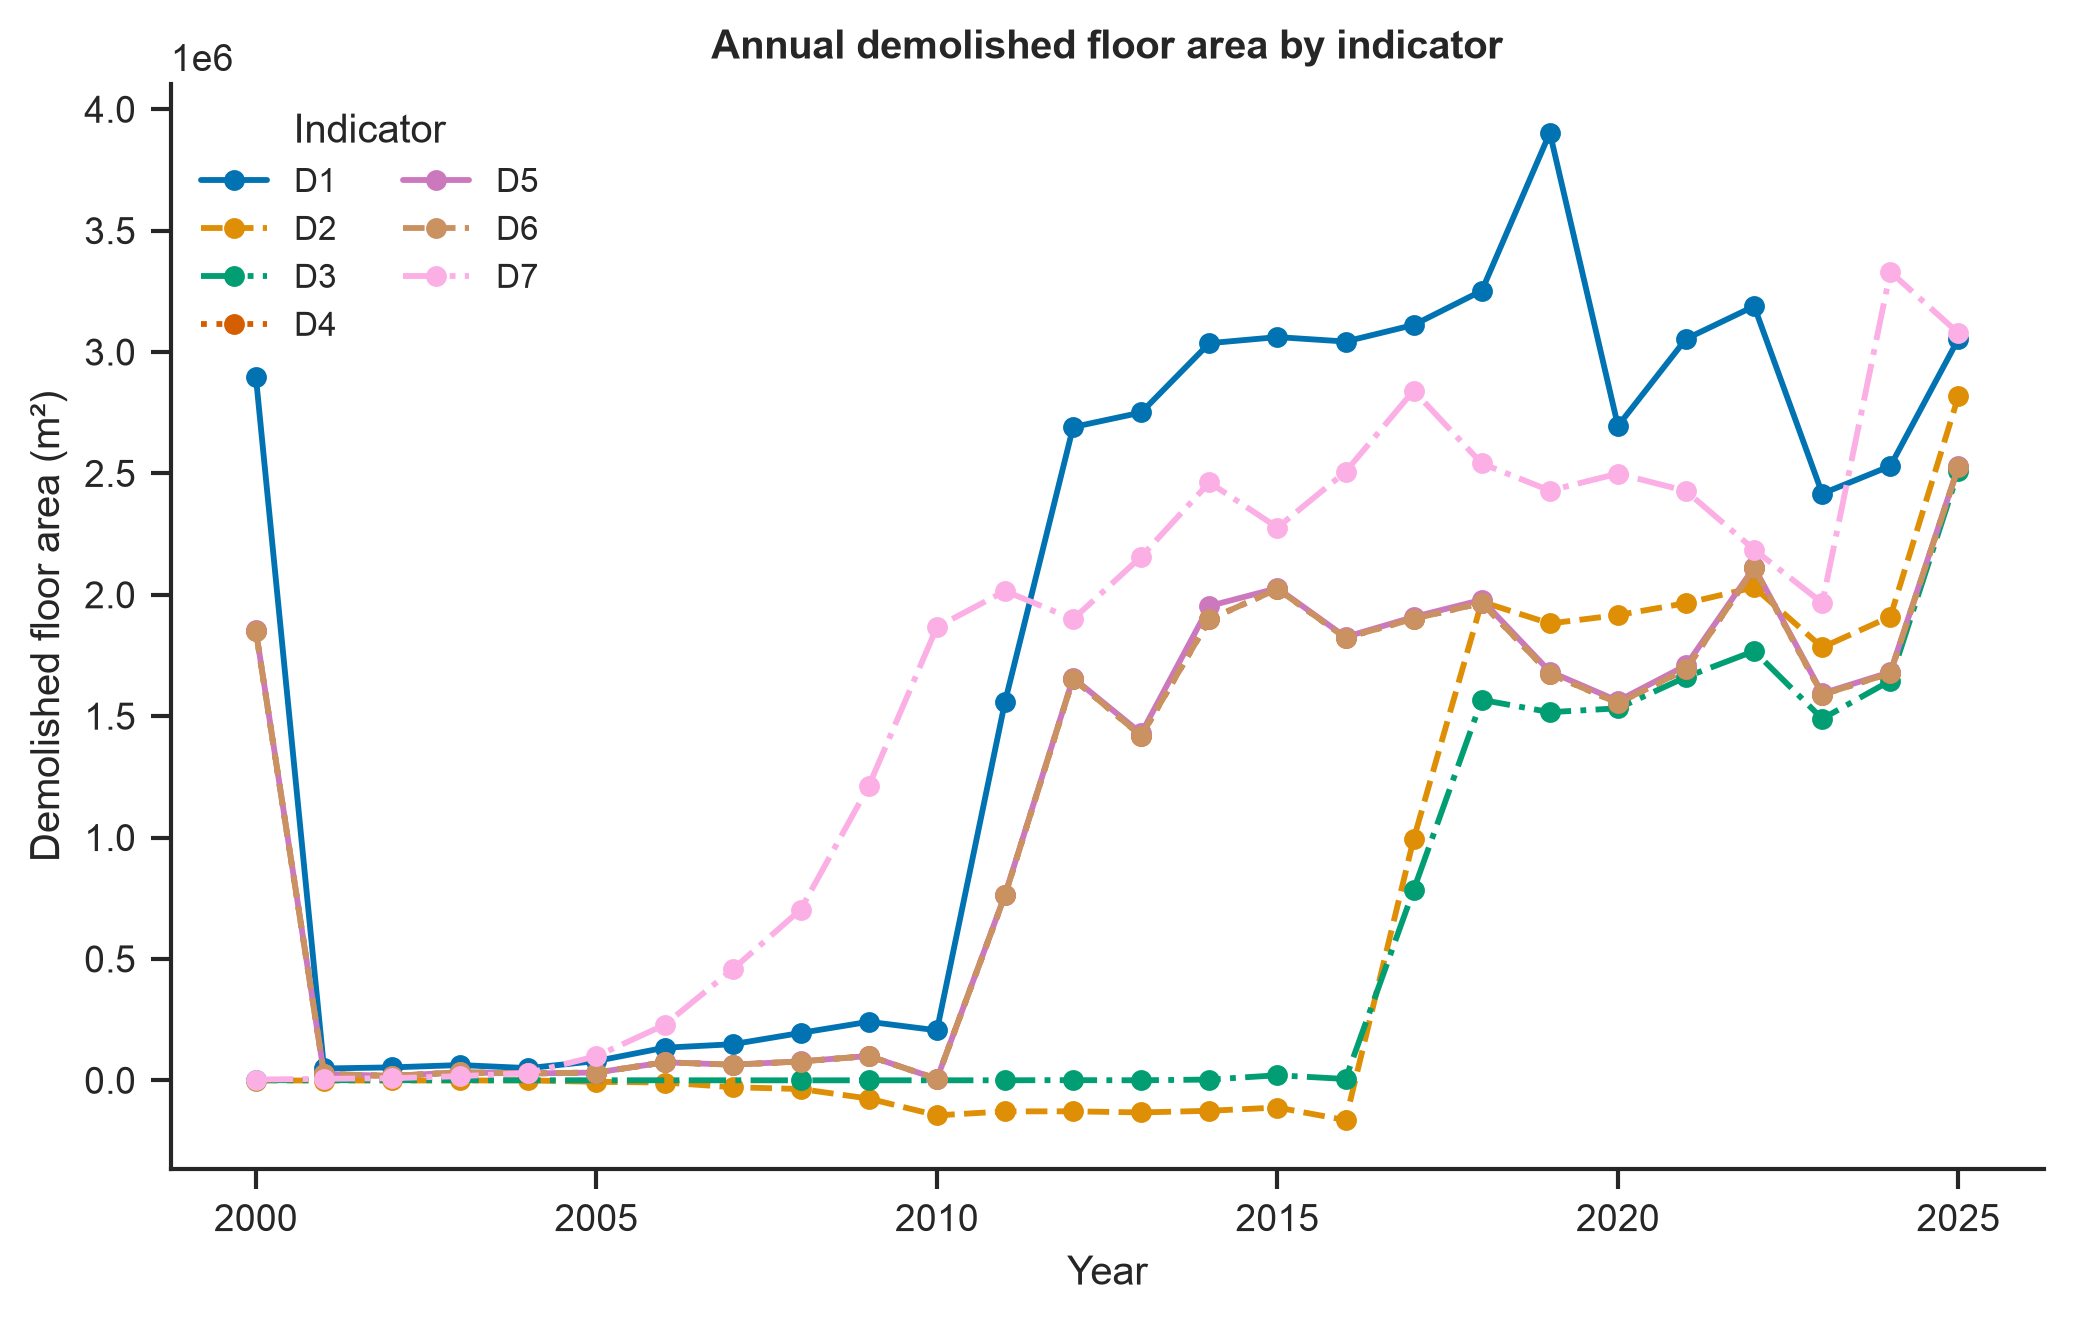
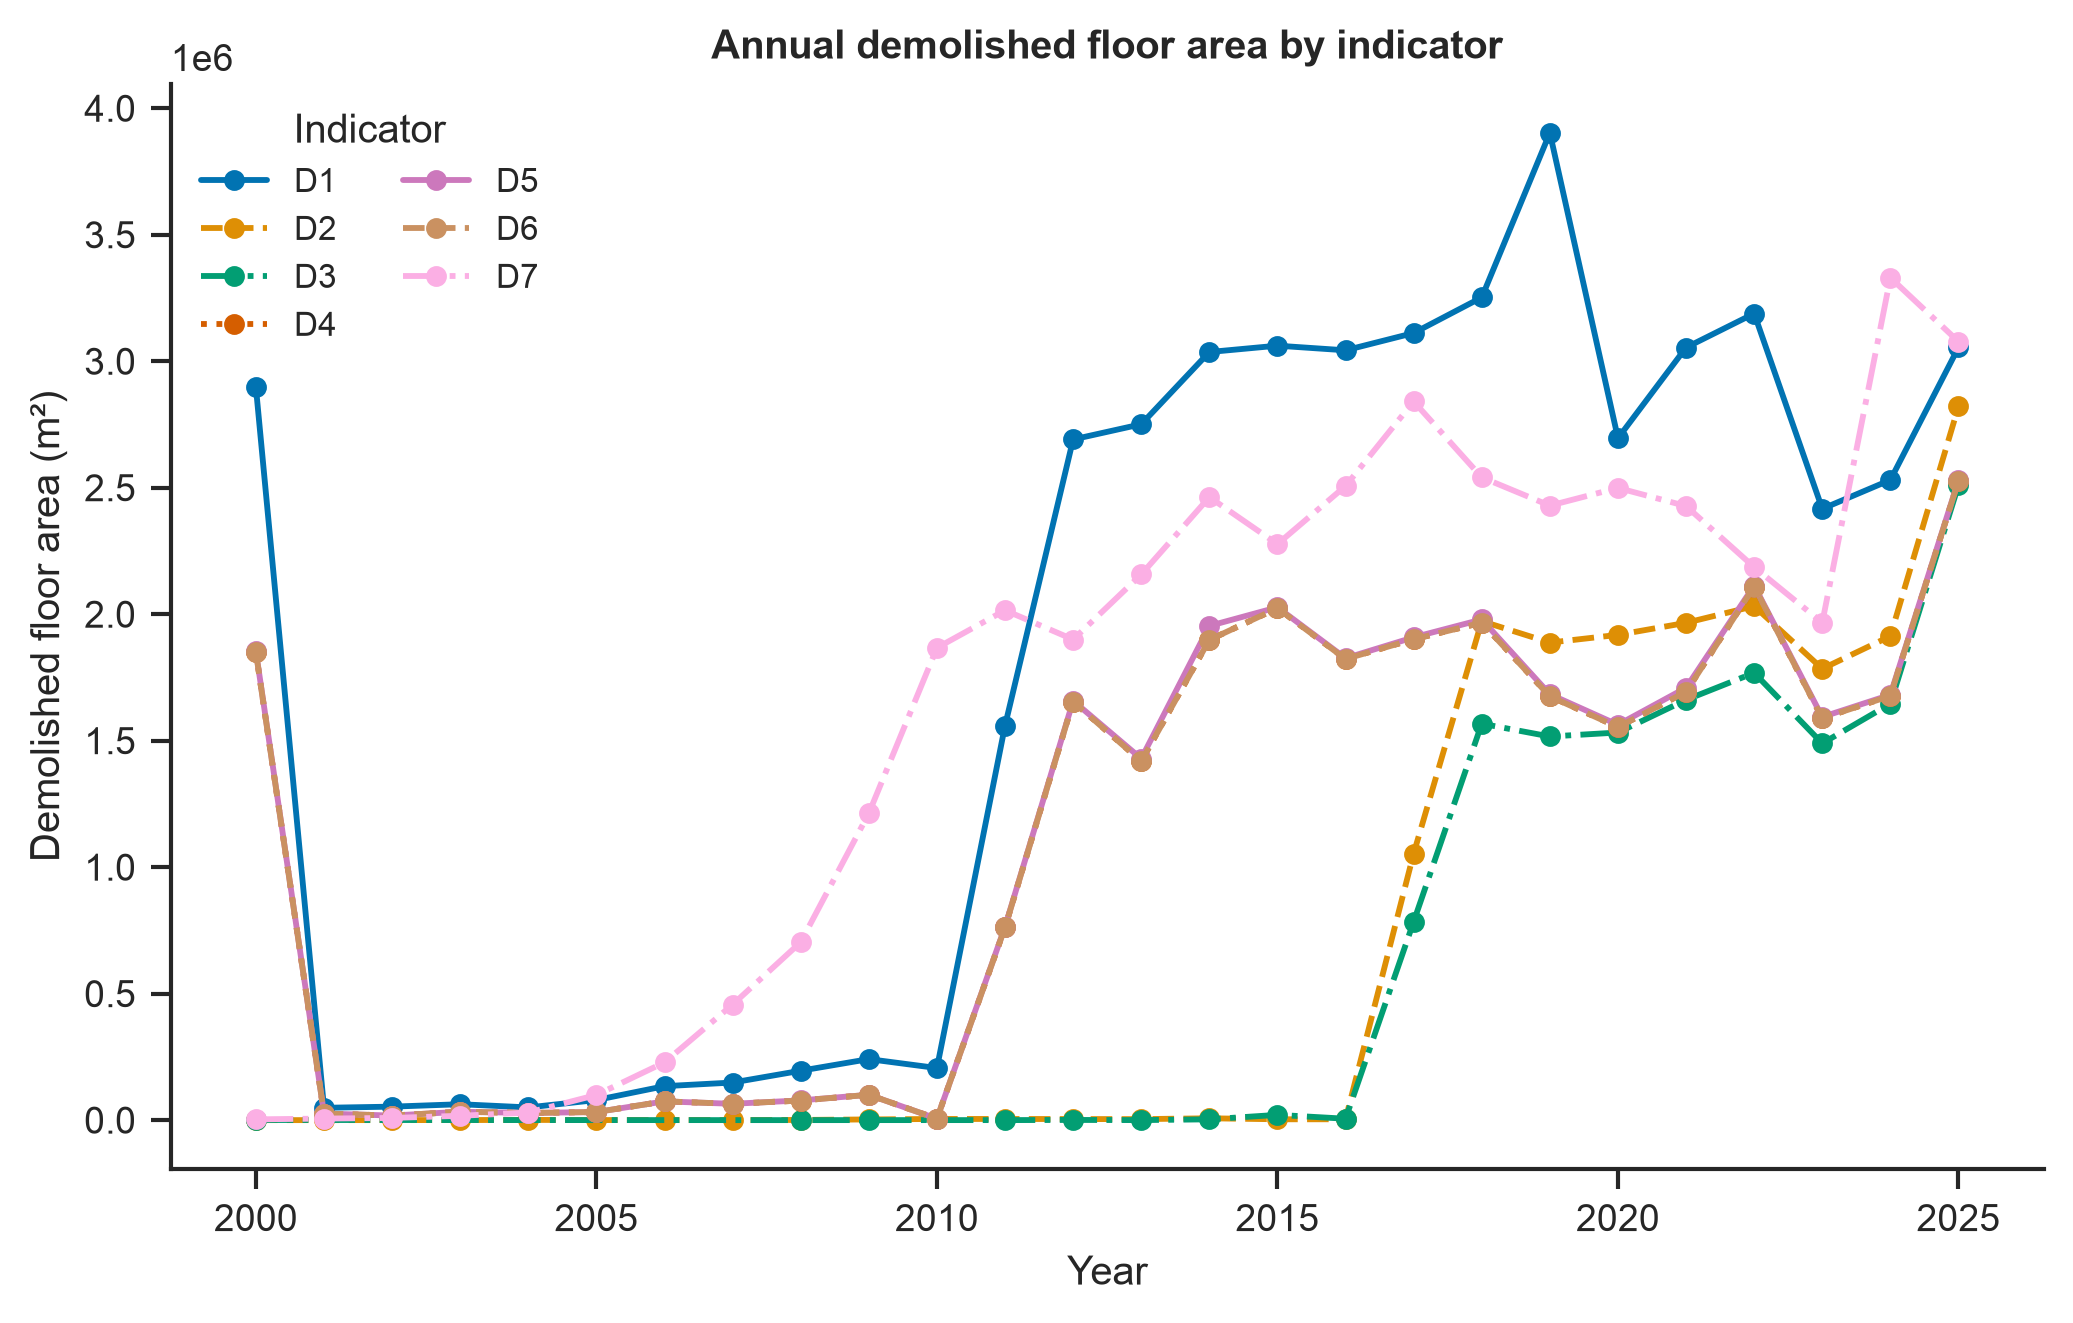
ablation study

diff --git a/src/ablation.py b/src/ablation.py
@@ -21,10 +21,16 @@ Per-building attributes (area, use-code, region, construction year) are rolled u
 lives in the driver, never in an indicator (the indicators stay pure per the article's
 "no opaque contract" principle).
 
+Erroneous AREA values (negative/zero) are coerced to null in ``build_attributes`` — buildings
+are kept, so no indicator's count changes. Construction year is left raw (we model
+demolitions, not lifespan; the year-1000 GIS marker is only flagged). ``cleaning_report``
+records how many values each rule removed, overall and per indicator.
+
 Outputs (written under ``results/``):
     ablation_summary.csv   one row per variant: counts, total/median m² + coverage per area def
     annual.csv             variant × year: count and m² per area def
     by_region.csv          variant × region: count and floor-area m²
+    cleaning_report.csv    erroneous values removed per rule × (all stock, each indicator)
     overlap.csv            pairwise intersection + Jaccard among the 7 base indicators
     figures/*.png + *.pdf  annual_counts, annual_area_etage,
                            area_definition_sensitivity, overlap_heatmap
@@ -58,37 +64,125 @@ AREA_DEFS = ["footprint", "total", "etage"]
 # not blanked-on-exit — hence honest coverage reporting rather than backfill.
 
 
-def build_attributes() -> pl.LazyFrame:
-    """LazyFrame[building_id, area_footprint, area_total, area_etage, use_code,
-    region_name, construction_year] — one row per building."""
+# Erroneous-value handling. We model DEMOLITIONS, not lifespan, so the only values that can
+# corrupt an output are the ones we aggregate: the demolition DATE and the AREA. Those we
+# clean. The construction YEAR is a covariate we do not aggregate on, so its errors (0,
+# medieval, or the auto-generated GIS marker 1000) are harmless here — nulling them would
+# only discard real demolitions' metadata for no gain. We therefore leave construction_year
+# RAW and merely FLAG the auto-generated year-1000 buildings (`autogenerated`) so a future
+# lifespan / construction-period analysis can drop them itself (Andersen 2023 does).
+#
+# Area cleaning IS applied to all three area columns with the same rule (`<= 0 → null`:
+# negative is impossible, zero is "unregistered" not a real 0): buildings kept, so no
+# indicator's count changes and `coverage_pct` stays honest. Future demolition DATES (the
+# other modelled quantity) are removed by the demolition-year window in
+# `indicators._in_window`; empirically there are none beyond the current year anyway.
+AUTOGENERATED_YEAR = 1000  # GIS/satellite auto-registered buildings (flagged, NOT removed)
+
+
+def _raw_rollup() -> pl.LazyFrame:
+    """One row per building with the raw last-known non-null attributes (pre-cleaning)."""
     lf = pl.scan_parquet(ind.BYGNING_PATH).sort("virkningFra")
 
     def last_nonnull(col: str) -> pl.Expr:
         return pl.col(col).drop_nulls().last()
 
-    rolled = lf.group_by("id_lokalId").agg(
-        last_nonnull("byg041BebyggetAreal").alias("area_footprint"),
-        last_nonnull("byg038SamletBygningsareal").alias("area_total"),
-        last_nonnull("byg039BygningensSamledeBoligAreal").alias("_bolig"),
-        last_nonnull("byg040BygningensSamledeErhvervsAreal").alias("_erhverv"),
-        last_nonnull("byg021BygningensAnvendelse").alias("use_code"),
-        last_nonnull("region_name").alias("region_name"),
-        last_nonnull("byg026Opførelsesår").alias("construction_year"),
+    return (
+        lf.group_by("id_lokalId")
+        .agg(
+            last_nonnull("byg041BebyggetAreal").alias("area_footprint"),
+            last_nonnull("byg038SamletBygningsareal").alias("area_total"),
+            last_nonnull("byg039BygningensSamledeBoligAreal").alias("_bolig"),
+            last_nonnull("byg040BygningensSamledeErhvervsAreal").alias("_erhverv"),
+            last_nonnull("byg021BygningensAnvendelse").alias("use_code"),
+            last_nonnull("region_name").alias("region_name"),
+            last_nonnull("byg026Opførelsesår").alias("construction_year"),
+        )
+        .with_columns(
+            # etageareal = bolig + erhverv (BUILD). Null only when BOTH are null (no info);
+            # if one is present the other counts as 0. Negative components dropped first so
+            # they cannot corrupt the sum.
+            pl.when(pl.col("_bolig").is_null() & pl.col("_erhverv").is_null())
+            .then(None)
+            .otherwise(
+                pl.when(pl.col("_bolig") >= 0).then(pl.col("_bolig")).otherwise(0)
+                + pl.when(pl.col("_erhverv") >= 0).then(pl.col("_erhverv")).otherwise(0)
+            )
+            .alias("area_etage"),
+        )
+        .rename({"id_lokalId": "building_id"})
     )
-    return rolled.select(
-        pl.col("id_lokalId").alias("building_id"),
-        "area_footprint",
-        "area_total",
-        # etageareal = bolig + erhverv (BUILD). Null only when BOTH are null (no info);
-        # if one is present the other counts as 0 — matches BUILD's bolig+erhverv sum.
-        pl.when(pl.col("_bolig").is_null() & pl.col("_erhverv").is_null())
-        .then(None)
-        .otherwise(pl.col("_bolig").fill_null(0) + pl.col("_erhverv").fill_null(0))
-        .alias("area_etage"),
+
+
+def build_attributes() -> pl.LazyFrame:
+    """LazyFrame[building_id, area_footprint, area_total, area_etage, use_code,
+    region_name, construction_year, autogenerated] — one row per building.
+
+    Area errors are coerced to null (footprint, total and etage all: ``<= 0`` = negative or
+    "unregistered", same rule for the three). Construction year is left RAW — we model
+    demolitions, not lifespan, so its errors do not corrupt any output — with the auto-
+    generated year-1000 buildings only FLAGGED (`autogenerated`) for a downstream
+    lifespan/construction-period analysis to drop.
+    """
+    return _raw_rollup().select(
+        "building_id",
+        # All areas: negative OR zero → null. Zero ground/floor area on a standing building
+        # is "unregistered", not a real 0 (affects coverage%/median, not the sums). Same rule
+        # for all three so footprint is not treated inconsistently.
+        pl.when(pl.col("area_footprint") > 0).then(pl.col("area_footprint")).alias("area_footprint"),
+        pl.when(pl.col("area_total") > 0).then(pl.col("area_total")).alias("area_total"),
+        pl.when(pl.col("area_etage") > 0).then(pl.col("area_etage")).alias("area_etage"),
         "use_code",
         "region_name",
-        "construction_year",
+        "construction_year",  # left raw on purpose — see module note above
+        (pl.col("construction_year") == AUTOGENERATED_YEAR).alias("autogenerated"),
     )
+
+
+def _cleaning_flags() -> pl.DataFrame:
+    """One boolean row per building: the area values coerced to null, plus the year-1000 flag.
+
+    The three area flags count values actually *removed* (present raw → null). The last
+    column, ``autogenerated_year1000``, is INFORMATIONAL only — those years are kept (we
+    model demolitions, not lifespan); it just records how many carry the GIS marker.
+    """
+    raw = _raw_rollup().collect()
+    return raw.select(
+        "building_id",
+        (pl.col("area_footprint") <= 0).fill_null(False).alias("zeroneg_footprint"),
+        (pl.col("area_total") <= 0).fill_null(False).alias("zeroneg_total"),
+        (pl.col("area_etage") <= 0).fill_null(False).alias("zeroneg_etage"),
+        (pl.col("construction_year") == AUTOGENERATED_YEAR)
+        .fill_null(False)
+        .alias("autogenerated_year1000"),
+    )
+
+
+def cleaning_report(flags: pl.DataFrame) -> pl.DataFrame:
+    """Values removed per rule — overall and per demolition indicator.
+
+    Row ``ALL_BUILDINGS`` is the whole stock; each ``D#`` row counts only that indicator's
+    demolished buildings hit (the "how many demolitions it affects" ask). The three area
+    columns are removals; ``autogenerated_year1000`` is a *kept* flag reported for context.
+    """
+    rules = [
+        "zeroneg_footprint",
+        "zeroneg_total",
+        "zeroneg_etage",
+        "autogenerated_year1000",
+    ]
+    rows = [
+        {"scope": "ALL_BUILDINGS", "n_buildings": flags.height}
+        | {r: int(flags[r].sum()) for r in rules}
+    ]
+    for i in ind.all_indicators():
+        ids = i.build().select("building_id").collect()
+        sub = flags.join(ids, on="building_id", how="inner")
+        rows.append(
+            {"scope": i.id, "n_buildings": sub.height}
+            | {r: int(sub[r].sum()) for r in rules}
+        )
+    return pl.DataFrame(rows)
 
 
 # --- Per-variant statistics -------------------------------------------------
@@ -179,6 +273,12 @@ def main() -> None:
 
     print("Rolling up per-building attributes …")
     attrs = build_attributes().collect().lazy()  # materialise once, reuse across variants
+
+    print("Reporting erroneous-value cleaning …")
+    clean_df = cleaning_report(_cleaning_flags())
+    clean_df.write_csv(RESULTS / "cleaning_report.csv")
+    with pl.Config(tbl_cols=-1, tbl_rows=-1):
+        print(clean_df)
 
     variants = ind.all_variants()
     summaries, annuals, regions = [], [], []

diff --git a/docs/ablation.md b/docs/ablation.md
@@ -106,6 +106,50 @@ Example (`D1`, from `ablation_summary.csv`):
 Read as: footprint is trustworthy but a different quantity; total/etage are "of the ~46%
 we can see."
 
+## Erroneous-value cleaning
+
+We model **demolitions, not lifespan**, so the only values that can corrupt an output are
+the ones we aggregate: the **demolition date** and the **area**. Those we clean. The
+**construction year is left RAW** — it is a covariate we never aggregate on, so its errors
+(0, medieval, or the auto-generated GIS marker `1000`) are harmless here, and nulling them
+would only discard real demolitions' metadata for no gain. We **coerce to null, never drop
+buildings** — so no indicator's count changes and `coverage_pct` stays honest.
+
+| Rule | Action | Rationale |
+|---|---|---|
+| footprint, total, etage | `≤ 0 → null` | negative area is impossible; zero ground/floor area on a standing building is "unregistered", not a real 0 (fixes coverage%/median, not the sums). Same rule for all three — footprint is not treated inconsistently |
+| construction year | **kept raw** | not aggregated; errors can't corrupt a demolition output |
+| auto-generated year 1000 | **flagged, not removed** (`autogenerated`) | lets a future lifespan / construction-period analysis drop them (Andersen 2023 does) without baking it in |
+| future demolition dates | removed by the year window | the modelled date is clipped in `indicators._in_window`; empirically there are none beyond the current year (max = 2026, `>2026` = 0) |
+
+`cleaning_report()` writes `results/cleaning_report.csv` — values removed per rule, for the
+whole stock and **per demolition indicator** (year-1000 shown as a *kept* flag for context):
+
+| scope | n | ≤0 footprint | ≤0 total | ≤0 etage | year-1000 (kept) |
+|---|---:|---:|---:|---:|---:|
+| ALL buildings | 6,250,075 | 42,299 | 125,248 | 121,419 | 454,739 |
+| D1 status=10 | 436,194 | 0 | 8,427 | 8,369 | 38,923 |
+| D2 process=3 | 225,706 | **9,342** | 10,071 | 8,802 | 11,805 |
+| D3 | 99,664 | 0 | 3,552 | 3,497 | 11,633 |
+| D4 sagstype=32 | 237,012 | 0 | 6,184 | 6,089 | 16,077 |
+| D5 {31,32} | 249,152 | 0 | 6,965 | 6,869 | 16,532 |
+| D6 | 200,634 | 0 | 3,877 | 3,819 | 13,063 |
+| D7 | 243,691 | 0 | 6,724 | 6,616 | 16,102 |
+
+Findings:
+- **Non-positive footprints are exclusive to D2** (9,342; zero everywhere else) — another D2/
+  process-3 anomaly (it already had the lowest footprint coverage). Removing the negatives
+  among them *raised* D2's footprint total (15.7M→16.9M m²), which they had been dragging down.
+- Zero/negative total & etage hit ~3–5% of each indicator, lowering area coverage (e.g. D1
+  total coverage 46.5%→44.6%) but not the m² sums.
+- **~9% of every indicator's demolitions carry the year-1000 GIS marker** (38,923 of D1).
+  Irrelevant to counts/area (kept), but flagged because it would inflate any *lifespan*
+  estimate — the point at which it should be dropped, not here.
+
+**Judgment call (confirmed, kept visible):** non-positive areas read as missing, not a real 0.
+Construction-year errors are deliberately *not* cleaned — that would be a lifespan concern,
+and this study models demolitions.
+
 ## Held-fixed confounds
 
 Per `docs/indicators.md`, everything except the indicator is frozen so it can't confound